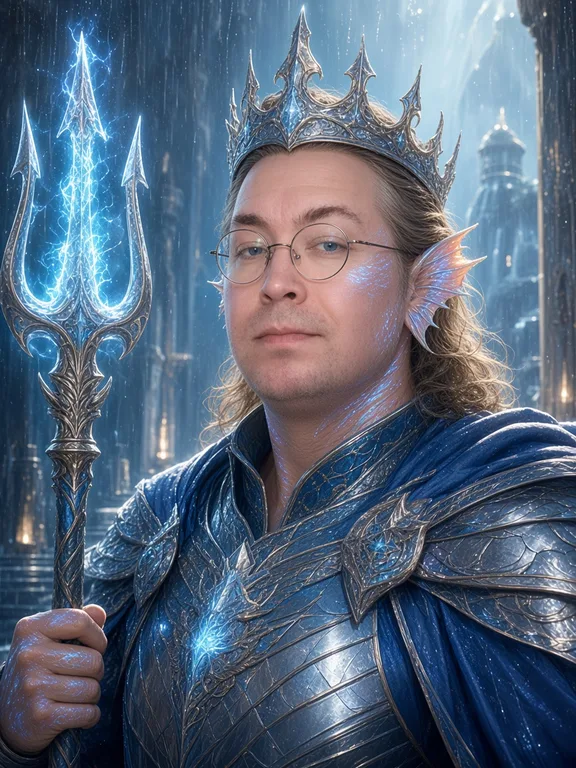
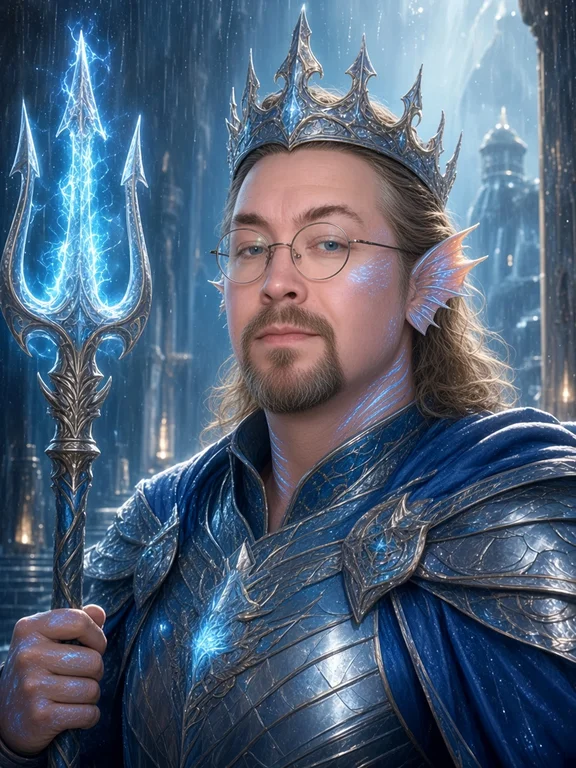
Starbound Envoy v2.0.3 BETA: distinct Belladrae, Mitling redesign (kitten rider), Jeff goatee+gills

diff --git a/data.js b/data.js
@@ -627,7 +627,7 @@ const SB_RACES = [
 { id:'jef', name:'Rainwater Imperium', short:'Rainwater', kind:'Elegant fish-folk masters of water and weather, the most advanced civilization in the galaxy', speaker:'Supreme Emperor Jeff',
   img:'img/jef.webp', color:'#5aa8ff', techBase:5, respectsStrength:0.5, hatesBullies:0.9, friendAll:true, favorMult:2, giftChance:0.25,
   wants:['crystal','data','relics'], secretWant:'art', taboo:'chem',
-  eyes:[[.423,.33],[.5625,.327]], eyeR:.015, blink:true, glow:'#8fd0ff',
+  eyes:[[.443,.324],[.575,.319]], eyeR:.014, blink:true, glow:'#8fd0ff',
   hint:'Strong, honest, kind and fair. They never lie, protect the weak and reward courage and honesty. The galaxy\'s leading technology: they shape rain and weather. Allied with nearly everyone, generous with favors and with rare tech. Bullies and polluters lose their respect fast.',
   greet:{hi:'Captain! Welcome back to the Imperium. The rain is warm today, and so is the welcome. What can we build together?',
     mid:'Welcome to Rainwater space, Captain. Speak plainly and you will be treated fairly. That is the Imperium\'s promise.',
@@ -650,7 +650,7 @@ const SB_RACES = [
 { id:'bel', name:'Belladrae Blossomhive', short:'Belladrae', kind:'Sweet, trusting all-female people from a crowded, glittering homeworld', speaker:'The Belladrae Sisters (all of us!)',
   img:'img/bel.webp', color:'#f2a7d8', techBase:1, respectsStrength:0.1, hatesBullies:0.9, giftChance:.2,
   wants:['gems','silk','art'], secretWant:'crystal', taboo:'arms',
-  eyes:[[.47,.397],[.555,.391]], eyeR:.012, blink:true,
+  eyes:[[.503,.387],[.569,.398]], eyeR:.012, blink:true,
   hint:'A world packed with sisters and only sisters. They have daughters without men, always speak as "we", and believe nearly anything you tell them. They are generous and simple traders who love anything shiny or pretty. Weapons make them cry.',
   greet:{hi:'Ooh, it\'s the Captain! We missed you SO much! All of us! Well, most of us. There are a lot of us.',
     mid:'Hi hi hi! A visitor! We love visitors! Do you have anything sparkly?',
@@ -679,7 +679,7 @@ const SB_RACES = [
 { id:"mah", name:"Mahrani Caravan", short:"Mahrani", kind:"Proud lion-folk merchant princes who run the great trade caravans", speaker:"Caravan-Prince Rasheem al-Kahr", color:"#e0a838", techBase:3, respectsStrength:0.5, hatesBullies:0.5, wants:["silk", "spice", "textile"], secretWant:"gems", taboo:"ore", eyes:[[0.445, 0.34], [0.6, 0.34]], eyeR:0.011, hint:"Dignified feline traders whose caravans cross whole sectors. They bargain hard but always keep their word. They love silk and spice, and mining is a crude business to them.", greet:{"hi": "Captain, my friend! My caravan is your caravan. Mostly.", "mid": "Welcome to the bazaar, Captain. Let us bargain like civilized beings.", "lo": "Captain. Your credit is not good here. Nor your manners."}, tones:{"friendly": [4, "A warm greeting. Good. Trade begins with warmth."], "firm": [4, "A firm voice. Good. Bargaining begins with respect."], "threat": [-6, "You threaten a Mahrani? In front of the whole bazaar? Shameful."], "flatter": [3, "My mane IS splendid. You have good taste, Captain."]}, special:{"prompt": "Rasheem's eyes narrow. \"Captain, haggle with me. One bolt of my finest silk. Name your price.\"", "options": [{"t": "Haggle long and hard", "rep": 8, "fx": "intel", "reply": "\"Ha! You bargain like a Mahrani! Take the silk, and some route charts as well.\""}, {"t": "Pay full price", "rep": -1, "reply": "\"You... didn't haggle? How sad. Take it.\""}, {"t": "Offer a ridiculous lowball", "rep": 2, "reply": "\"Insulting! Delightful! Again, tomorrow.\""}]}, favor:{"gift": "\"Carry this fine silk to the {to} at {where}. A gift between traders.\"", "msg": "\"Tell the {to} at {where} that the caravan arrives soon.\"", "prisoner": "\"This {to} cheated the caravan. Take him back to {where}.\"", "dossier": "\"Trade records of the {to}. Deliver them to {where}.\""}, full:"\"Our caravans carry plenty of that. Bring us something rare.\"", ships:["Golden Mane", "Spice Wind", "Pride of Kahr"], img:"img/mah.webp", blink:true},
 { id:"vho", name:"Vhoss Unfolded", short:"Vhoss", kind:"Terrifying tri-headed beings from a fluid dimension beyond our space", speaker:"The Unfolded Voice", color:"#c58a3a", techBase:5, respectsStrength:0.8, hatesBullies:0, giftChance:0.05, wants:["biomass", "isotope", "water"], secretWant:"seeds", taboo:"circuits", eyes:[[0.42, 0.455], [0.6, 0.455]], eyeR:0.012, glow:"#ffe066", hint:"Ancient beings from a dimension of living fluid, who think our space is an infection. They speak in your mind. Hostile to almost everyone, but even they can learn respect. Machines are poison to them.", greet:{"hi": "...The weak one returns. You... are less weak than the others.", "mid": "Your galaxy... is a disease. Why do you speak to us?", "lo": "The weak shall perish. You first."}, tones:{"friendly": [-3, "Your friendship... is meaningless to us."], "firm": [3, "Hm. You do not tremble. Interesting."], "threat": [2, "You threaten us? ...Bold. Foolish. Bold."], "flatter": [-3, "Your words are noise in the fluid."]}, special:{"prompt": "Your mind fills with an alien voice. \"Show us that your kind is not a disease. Or be cleansed.\"", "options": [{"t": "Share memories of kindness", "rep": 9, "fx": "intel", "reply": "\"...Unexpected. Perhaps not all of you are sickness. Take this knowledge. Leave our space.\""}, {"t": "\"We will fight you.\"", "rep": 2, "reply": "\"Strength. Brief, but strength.\""}, {"t": "Try to hack their minds with circuitry", "rep": -8, "reply": "\"Poison! You bring POISON!\""}]}, favor:{"gift": "\"Deliver this... organism... to the {to} at {where}.\"", "msg": "\"Tell the {to} at {where}: we are watching.\"", "prisoner": "\"This {to} entered our space. Return it to {where}. Do not return yourself.\"", "dossier": "\"We have seen the {to}. Bring our vision to {where}.\""}, full:"\"We need no more of that.\"", ships:["Fold", "Bioship Ahn", "Unmaking"], img:"img/vho.webp", blink:true},
 { id:"eph", name:"Ephiri Brightlings", short:"Ephiri", kind:"Gentle, short-lived psychic folk who live only nine years and treasure every day", speaker:"Elder Lio, age seven", color:"#cfd8ff", techBase:2, respectsStrength:0, hatesBullies:1, giftChance:0.2, wants:["seeds", "water", "medicine"], secretWant:"nectar", taboo:"arms", eyes:[[0.413, 0.46], [0.6, 0.455]], eyeR:0.014, hint:"A gentle underground people who live only nine years and treat every day like a gift. Mildly psychic, kind and wise beyond their age. Violence and weapons horrify them.", greet:{"hi": "Captain! You came back! That makes this my best day this year.", "mid": "Hello, Captain. Every visitor is a gift. Please, come in.", "lo": "We have so little time, Captain. We will not spend it angry. But please go."}, tones:{"friendly": [6, "Your kindness feels warm, like sunlight we rarely see."], "firm": [2, "Plain words. We like those too. We have no time for long ones."], "threat": [-8, "Why? We only live nine years. Why would you take any of them?"], "flatter": [2, "Thank you. But we can feel what you really mean."]}, special:{"prompt": "Elder Lio smiles. \"Captain, I will not live to see the new garden bloom. Will you help us plant it, so someone remembers I was here?\"", "options": [{"t": "Plant the garden together", "rep": 9, "fx": "intel", "reply": "\"Thank you. When it blooms, I will be gone, but you will remember. Here, our seers watched the stars for you.\""}, {"t": "Give them seeds and leave", "rep": 3, "reply": "\"A kind gift. Thank you, Captain.\""}, {"t": "\"I don't have time.\"", "rep": -4, "reply": "\"We know about not having time. More than you.\""}]}, favor:{"gift": "\"Carry this to the {to} at {where}. It's a seed from the garden of an elder who has passed.\"", "msg": "\"Tell the {to} at {where} that we thought of them today.\"", "prisoner": "\"This {to} got lost in our caves. Please take him home to {where}.\"", "dossier": "\"Our seers dreamed about the {to}. Bring the dream to {where}.\""}, full:"\"We have enough of that, thank you. Life is short. Bring us something new.\"", ships:["Ninth Spring", "Small Mercy", "Lantern"], img:"img/eph.webp", blink:true},
-{ id:"mit", name:"Mitling League", short:"Mitling", kind:"Tiny, one-foot-tall people with enormous egos and very clever hands", speaker:"Grand Commodore Pell Thimbleton", color:"#8fc36a", techBase:4, respectsStrength:0.2, hatesBullies:0.8, wants:["circuits", "crystal", "nectar"], secretWant:"spice", taboo:"ore", eyes:[[0.42, 0.32], [0.535, 0.32]], eyeR:0.017, hint:"A proud people about a foot tall who build marvelous tiny machines and refuse to be called small. Treat them as equals and they are loyal friends. Clumsy, heavy ore reminds them of the giants who used to step on their cities.", greet:{"hi": "Captain! Get down here so I can shake your hand. Well, your finger. Same thing.", "mid": "Greetings, giant. Mind where you put your feet. State your business.", "lo": "Oh, it's the big oaf. We're watching you. From down here. Very closely."}, tones:{"friendly": [5, "Ha! Friendly AND tall. A rare combination. Pull up a thimble."], "firm": [3, "Good. Talk to me like an equal. Because I am one."], "threat": [-7, "Threats? We have shut down a battleship from the inside, giant. Through the air vents."], "flatter": [2, "Cute? Did you just call me CUTE? ...Fine. Accepted. Just this once."]}, special:{"prompt": "Pell climbs onto your console. \"Captain, your ship's wiring is a disgrace. Let my crew crawl inside and fix it. We're the only ones who fit.\"", "options": [{"t": "\"Go ahead, I trust you.\"", "rep": 8, "fx": "intel", "reply": "\"Done! Also, we found a lost sensor log in your walls. Interesting stuff. You're welcome.\""}, {"t": "\"Only if I watch.\"", "rep": 3, "reply": "\"Watch all you like. You won't see much. We're small, remember?\""}, {"t": "\"Don't touch my ship, little guy.\"", "rep": -6, "reply": "\"LITTLE GUY? Right. We're leaving. Enjoy your spaghetti wiring.\""}]}, favor:{"gift": "\"Carry this to the {to} at {where}. Careful, it's a full-size gift. Took forty of us to lift it.\"", "msg": "\"Tell the {to} at {where} that the League sends regards. Loudly, so they hear it.\"", "prisoner": "\"This {to} tried to keep one of us as a pet. Drop him at {where}. Don't be gentle.\"", "dossier": "\"We hid inside the {to}'s walls for a month. Here is everything. Take it to {where}.\""}, full:"\"We have that already, Captain. We don't need much, we're quite compact.\"", ships:["Big Ambition", "Thimble", "Mighty Mite"], img:"img/mit.webp", blink:true},
+{ id:"mit", name:"Mitling League", short:"Mitling", kind:"Tiny, one-foot-tall people with enormous egos and very clever hands", speaker:"Grand Commodore Pell Thimbleton", color:"#c8a060", techBase:4, respectsStrength:0.2, hatesBullies:0.8, wants:["circuits", "crystal", "nectar"], secretWant:"spice", taboo:"ore", eyes:[[0.477, 0.186], [0.54, 0.18]], eyeR:0.01, hint:"A proud people about a foot tall who build marvelous tiny machines and refuse to be called small. Treat them as equals and they are loyal friends. Clumsy, heavy ore reminds them of the giants who used to step on their cities.", greet:{"hi": "Captain! Get down here so I can shake your hand. Well, your finger. Same thing.", "mid": "Greetings, giant. Mind where you put your feet. State your business.", "lo": "Oh, it's the big oaf. We're watching you. From down here. Very closely."}, tones:{"friendly": [5, "Ha! Friendly AND tall. A rare combination. Pull up a thimble."], "firm": [3, "Good. Talk to me like an equal. Because I am one."], "threat": [-7, "Threats? We have shut down a battleship from the inside, giant. Through the air vents."], "flatter": [2, "Cute? Did you just call me CUTE? ...Fine. Accepted. Just this once."]}, special:{"prompt": "Pell climbs onto your console. \"Captain, your ship's wiring is a disgrace. Let my crew crawl inside and fix it. We're the only ones who fit.\"", "options": [{"t": "\"Go ahead, I trust you.\"", "rep": 8, "fx": "intel", "reply": "\"Done! Also, we found a lost sensor log in your walls. Interesting stuff. You're welcome.\""}, {"t": "\"Only if I watch.\"", "rep": 3, "reply": "\"Watch all you like. You won't see much. We're small, remember?\""}, {"t": "\"Don't touch my ship, little guy.\"", "rep": -6, "reply": "\"LITTLE GUY? Right. We're leaving. Enjoy your spaghetti wiring.\""}]}, favor:{"gift": "\"Carry this to the {to} at {where}. Careful, it's a full-size gift. Took forty of us to lift it.\"", "msg": "\"Tell the {to} at {where} that the League sends regards. Loudly, so they hear it.\"", "prisoner": "\"This {to} tried to keep one of us as a pet. Drop him at {where}. Don't be gentle.\"", "dossier": "\"We hid inside the {to}'s walls for a month. Here is everything. Take it to {where}.\""}, full:"\"We have that already, Captain. We don't need much, we're quite compact.\"", ships:["Big Ambition", "Thimble", "Mighty Mite"], img:"img/mit.webp", blink:true},
 ];
 // Baseline politics: 1 = allies, -1 = at war. Missing pairs = neutral. New games randomize a couple of these.
 const SB_RELATIONS = [['vel','pip',1],['gor','ssk',1],['gor','pip',-1],['vel','ssk',-1],['kri','gor',-1],['ill','pip',1],['ill','gor',-1],['zoh','pip',1],['zoh','vel',1],['rex','ill',-1],['rex','zoh',1],['rex','kri',1],['men','vel',1],['men','gor',1],['men','pip',1],['men','ssk',1],['men','kri',1],['men','ill',1],['men','zoh',1],['men','rex',1],['vhr','nyr',-1],['vhr','hro',-1],['vhr','gor',1],['nyr','ssk',1],['nyr','ael',-1],['ael','pip',1],['ael','gor',-1],['thi','bam',1],['thi','zoh',1],['ruk','hro',1],['ruk','blb',1],['blb','thi',1],['bam','hro',1],['blb','vhr',-1],['thi','vhr',-1],['thz','ssk',-1],['thz','gor',1],['thz','cor',-1],['omm','pip',1],['omm','kri',-1],['ser','ael',1],['ser','gru',-1],['ser','nyr',-1],['tar','hro',1],['tar','bam',1],['tar','pip',-1],['lum','zoh',1],['lum','dro',1],['dro','oru',1],['cor','blb',1],['cor','gru',-1],['gru','men',1],['gru','nyr',1],['gru','thi',-1],['oru','ruk',1],['oru','vhr',-1],['pon','zoh',1],['pon','thz',-1],['pon','vel',1],['bel','pip',1],['bel','pon',1],['bel','dro',1],['bel','gru',-1],['bel','gor',-1],['syn','pip',1],['syn','uth',1],['syn','hiv',-1],['hiv','vho',-1],['hiv','syn',-1],['hiv','ael',-1],['hun','gor',1],['hun','mit',-1],['hun','eph',-1],['aeo','omm',1],['aeo','grz',1],['grz','gru',1],['grz','mah',-1],['grz','men',1],['ket','eph',1],['ket','vhr',-1],['ket','ser',1],['uth','pip',1],['uth','syn',1],['mah','zoh',1],['mah','thi',1],['vho','lum',-1],['vho','jef',-1],['eph','dro',1],['eph','mit',1],['mit','pip',1],['mit','hro',-1]];

diff --git a/sw.js b/sw.js
@@ -1,5 +1,5 @@
 /*! STARBOUND ENVOY — © 2026 Rainwater Games (Jeff Rainwater). All rights reserved. */
-const V='2.0.0';const C='starbound-v'+V;
+const V='2.0.3';const C='starbound-v'+V;
 const F=['./','index.html','game.js?v='+V,'data.js?v='+V,'install.js?v='+V,'manifest.webmanifest','img/vel.webp','img/gor.webp','img/pip.webp','img/ssk.webp','img/kri.webp','img/ill.webp','img/zoh.webp','img/rex.webp','img/men.webp','img/blb.webp','img/ruk.webp','img/vhr.webp','img/thi.webp','img/ael.webp','img/nyr.webp','img/hro.webp','img/bam.webp','img/thz.webp','img/omm.webp','img/ser.webp','img/tar.webp','img/lum.webp','img/dro.webp','img/cor.webp','img/gru.webp','img/oru.webp','img/pon.webp','img/jef.webp','img/bel.webp','img/syn.webp','img/hiv.webp','img/hun.webp','img/aeo.webp','img/grz.webp','img/ket.webp','img/uth.webp','img/mah.webp','img/vho.webp','img/eph.webp','img/mit.webp','img/icon-192.png','img/icon-512.png'];
 self.addEventListener('install',e=>{e.waitUntil(caches.open(C).then(c=>c.addAll(F.map(u=>new Request(u,{cache:'no-cache'})))).then(()=>self.skipWaiting()));});
 self.addEventListener('activate',e=>{e.waitUntil(caches.keys().then(k=>Promise.all(k.filter(x=>x!==C).map(x=>caches.delete(x)))).then(()=>self.clients.claim()));});

diff --git a/index.html b/index.html
@@ -94,7 +94,7 @@ canvas.map{width:100%;display:block;border-radius:10px;background:#040814;touch-
  <div class="spacer"></div>
  <h1>STARBOUND<br>ENVOY</h1>
  <div class="sub">Diplomacy · Intel · Exploration</div>
- <div class="ver">v2.0.0 BETA</div>
+ <div class="ver">v2.0.3 BETA</div>
  <button class="btn pri" id="tContinue">Continue</button>
  <button class="btn" id="tNew">New Game</button>
  <button class="btn" id="tLoad">Load Game</button>
@@ -102,7 +102,7 @@ canvas.map{width:100%;display:block;border-radius:10px;background:#040814;touch-
 </div>
 <div id="modal" class="ov hide"></div>
 </div>
-<script src="data.js?v=2.0.0"></script>
-<script src="game.js?v=2.0.0"></script>
-<script src="install.js?v=2.0.0" data-name="Starbound Envoy" data-gate="__SB.state=title" data-bottom="44px"></script>
+<script src="data.js?v=2.0.3"></script>
+<script src="game.js?v=2.0.3"></script>
+<script src="install.js?v=2.0.3" data-name="Starbound Envoy" data-gate="__SB.state=title" data-bottom="44px"></script>
 </body></html>

diff --git a/game.js b/game.js
@@ -1,4 +1,4 @@
-/*! STARBOUND ENVOY v2.0.0 — © 2026 Rainwater Games (Jeff Rainwater). All rights reserved. */
+/*! STARBOUND ENVOY v2.0.3 — © 2026 Rainwater Games (Jeff Rainwater). All rights reserved. */
 'use strict';
 (function(){
 const VERSION='0.2';
